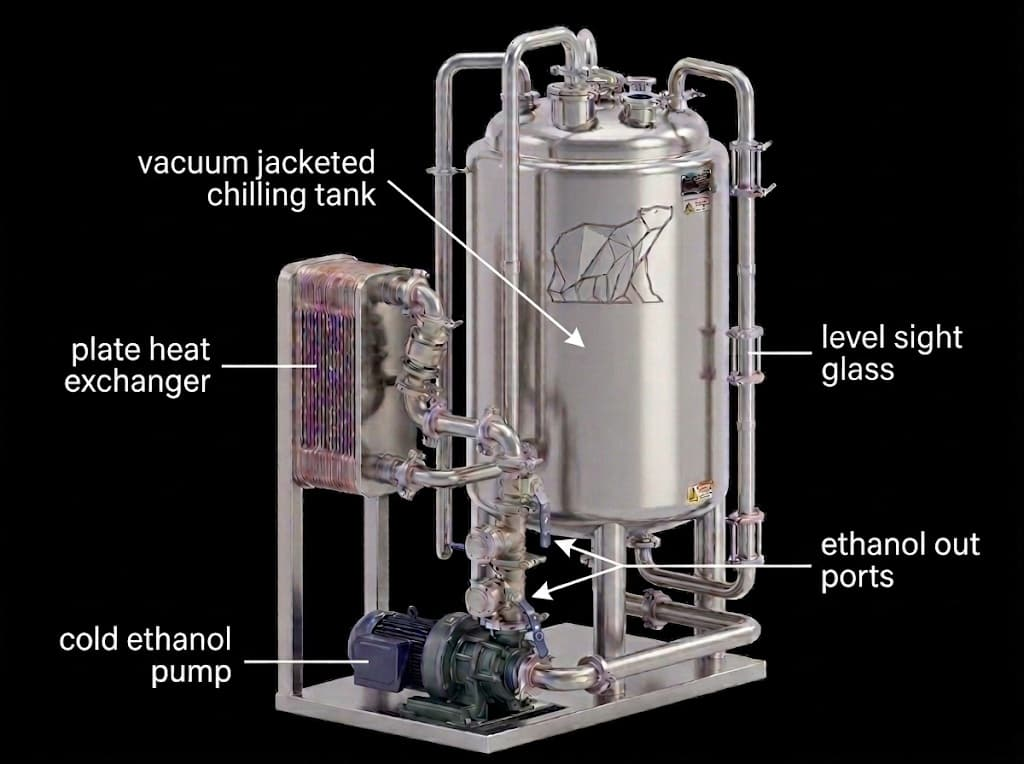
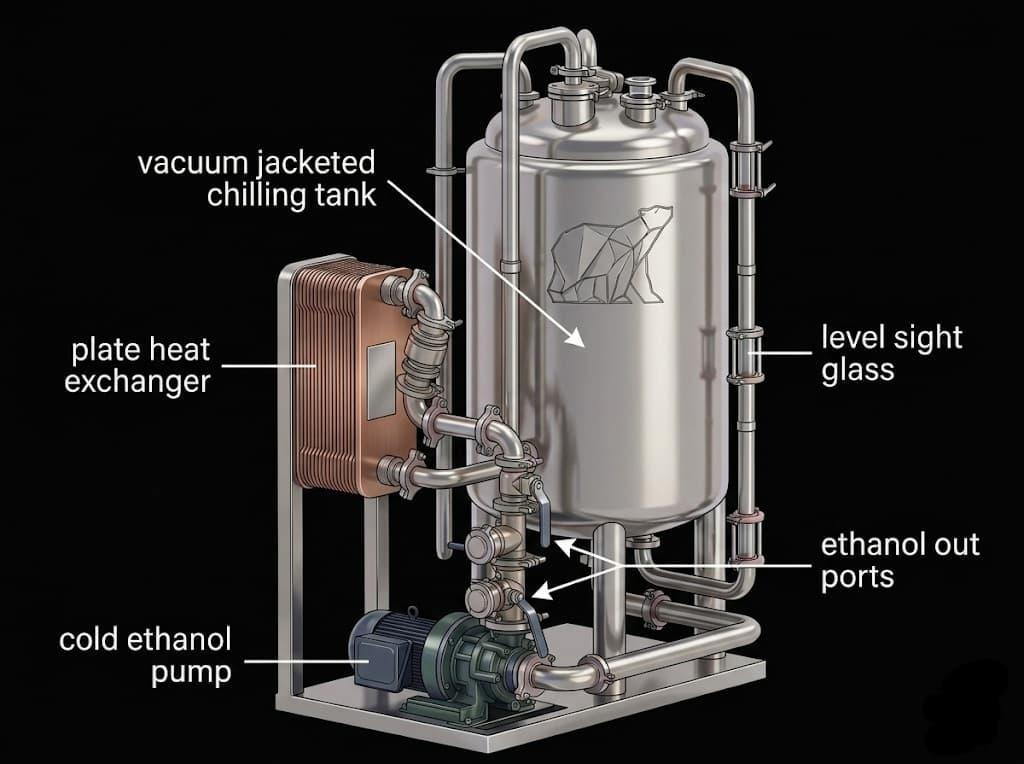
Update BLAST 60 tank overview and reduce flux box image size

diff --git a/app/ethanol-chiller-blast-60/page.jsx b/app/ethanol-chiller-blast-60/page.jsx
@@ -3,7 +3,7 @@ export const metadata = {
   description: "PermaCool BLAST 60 ethanol chiller is designed to chill up to 60 gallons toward -40°C with PLC/HMI visibility and direct refrigerant efficiency."
 }
 
-const mainHtml = "<p class=\"eyebrow\">BLAST™ Product Line</p>\n    <h1>BLAST 60 Ethanol Chiller</h1>\n    <p>\n      Built for extraction operators who need compact, production-ready chilling performance, the BLAST 60 class is engineered\n      for fast pull-down, low-temp stability, and reliable PLC-based control.\n    </p>\n\n    <h2>Cascade refrigeration design</h2>\n    <p>\n      The Blast 60 is a <strong>cascade unit</strong>, meaning it uses <strong>two compressors working together</strong> instead of forcing one oversized system to do everything on its own.\n    </p>\n    <ul class=\"list\">\n      <li><strong>The primary refrigeration circuit</strong> is what directly chills the ethanol.</li>\n      <li><strong>The cascade refrigeration circuit</strong> cools the primary circuit, allowing the overall system to reach lower temperatures and stronger chilling performance.</li>\n    </ul>\n    <p>\n      That two-stage approach lets the Blast 60 produce high-powered chilling while still using <strong>common-sized condensers and widely serviceable components</strong>.\n    </p>\n\n    <h2>Why that matters in the field</h2>\n    <h3>1. Better low-temp performance</h3>\n    <p>\n      The cascade setup allows the machine to push colder and work harder than a simple single-stage setup in the same class.\n    </p>\n\n    <h3>2. Common parts, easier service</h3>\n    <p>\n      Because it relies on more standard component sizing instead of rare oversized hardware, it is:\n    </p>\n    <ul class=\"list\">\n      <li>easier to diagnose</li>\n      <li>easier to repair</li>\n      <li>cheaper to repair</li>\n      <li>easier to keep running long-term</li>\n    </ul>\n\n    <h3>3. Long life / maintainability</h3>\n    <p>\n      This is huge. It is <strong>easy to keep these going forever</strong>.\n    </p>\n    <ul class=\"list\">\n      <li>built for long-term serviceability</li>\n      <li>designed around repairable common components</li>\n      <li>easier to maintain over the life of the machine</li>\n      <li>avoids dependence on exotic hard-to-source oversized parts</li>\n    </ul>\n\n    <h2>Built for better centrifuge pairing</h2>\n    <p>\n      Perma Cool’s legacy ACP-30 put more than 200 units into the field and proved the value of dedicated ethanol\n      pre-chilling. But at roughly 40 gallons, it was sized more for basic single-pass centrifuge support than for the\n      most efficient repeat-cycle workflow.\n    </p>\n    <p>\n      The ideal approach is to pair your ethanol tank at about <strong>2x the capacity of your centrifuge</strong>.\n    </p>\n    <p>That means:</p>\n    <ul class=\"list\">\n      <li><strong>30-gallon centrifuge = 60-gallon tank</strong></li>\n    </ul>\n    <p>\n      With that ratio, returning ethanol mixes back into a substantial reserve of already cold ethanol instead of\n      resetting the whole tank. The temperature shift stays much smaller, recovery back to <strong>-40</strong> is faster,\n      and operators can move back into extraction sooner.\n    </p>\n    <p>\n      This allows repeated extraction and re-chill cycles until the ethanol reaches roughly <strong>2 to 3 lb of material per gallon</strong>,\n      at which point it is ready to move to <strong>filtration and evaporation</strong>.\n    </p>\n    <p>\n      The Blast 60 is built around that more efficient real-world workflow.\n    </p>\n\n    <section class=\"card mt\">\n      <p class=\"eyebrow\">Component Overview</p>\n      <h2>Chiller Assets 60/45</h2>\n      <p>\n        This section is your visual breakdown of the major parts included with the Perma Cool BLAST™ 60/45. It is built so you can keep adding photos, part callouts, and short descriptions as you document the system.\n      </p>\n\n      <div style=\"display:grid; grid-template-columns:1fr 1fr; gap:1rem; align-items:start; margin-top:1rem;\">\n        <img src=\"/assets/images/products/blast-60-assets-overview.jpg\" alt=\"Perma Cool BLAST 60/45 chiller asset overview\" class=\"wide\" style=\"margin:0;\" />\n        <img src=\"/assets/images/products/blast-60-flux-box.jpg\" alt=\"Perma Cool BLAST 60/45 flux box\" class=\"wide\" style=\"margin:0;\" />\n      </div>\n\n      <div style=\"display:grid; grid-template-columns:1.05fr .95fr; gap:1rem; margin-top:1.25rem; align-items:start;\">\n        <div>\n          <h3>Current highlighted assets</h3>\n          <ul class=\"list\">\n            <li><strong>Vacuum jacketed chilling tank</strong>: insulated reservoir for maintaining cold ethanol stability.</li>\n            <li><strong>Plate heat exchanger</strong>: primary transfer surface for efficient chilling performance.</li>\n            <li><strong>Cold ethanol pump</strong>: circulates chilled ethanol through the process loop.</li>\n            <li><strong>Level sight glass</strong>: gives operators a quick visual on tank level during operation.</li>\n            <li><strong>Ethanol out ports</strong>: controlled output connections for routing chilled ethanol where it needs to go.</li>\n          </ul>\n\n          <h3 class=\"mt\">Recommended format for future asset entries</h3>\n          <ul class=\"list\">\n            <li><strong>Part name</strong>: use a short operator-friendly name first.</li>\n            <li><strong>Function</strong>: one sentence on what it does in the system.</li>\n            <li><strong>Why it matters</strong>: one sentence on the operating benefit.</li>\n            <li><strong>Photo or callout image</strong>: keep one image per part when possible for clarity.</li>\n          </ul>\n\n          <p><strong>Suggested naming style:</strong> Tank, Heat Exchanger, Pump, Sight Glass, Outlet Ports, Control Panel, Condenser, Compressors, Valves, and Utility Connections.</p>\n        </div>\n\n        <section class=\"card\" style=\"border:1px solid rgba(125, 199, 255, 0.24); box-shadow:0 10px 24px rgba(44, 111, 168, 0.12);\">\n          <p class=\"eyebrow\">Asset Detail</p>\n          <h3 style=\"font-size:1.15rem; color:#d7f0ff; letter-spacing:.02em;\">Flux Box</h3>\n          <p>\n            The <strong>flux box</strong> is part of the cascade side of the chiller and is specific to the <strong>BLAST™ 60/45</strong>.\n          </p>\n          <p>\n            This component allows the <strong>secondary chiller to cascade the primary chiller</strong>, supporting the two-stage refrigeration design that gives the 60/45 its stronger low-temperature performance.\n          </p>\n          <div style=\"display:grid; gap:.55rem; margin-top:1rem;\">\n            <div style=\"padding:.65rem .8rem; border-radius:10px; background:rgba(255,255,255,0.03); border:1px solid rgba(156, 179, 202, 0.14);\"><strong>Asset name:</strong> Flux Box</div>\n            <div style=\"padding:.65rem .8rem; border-radius:10px; background:rgba(255,255,255,0.03); border:1px solid rgba(156, 179, 202, 0.14);\"><strong>Used on:</strong> BLAST™ 60/45 only</div>\n            <div style=\"padding:.65rem .8rem; border-radius:10px; background:rgba(255,255,255,0.03); border:1px solid rgba(156, 179, 202, 0.14);\"><strong>Function:</strong> Supports the cascade refrigeration stage</div>\n            <div style=\"padding:.65rem .8rem; border-radius:10px; background:rgba(255,255,255,0.03); border:1px solid rgba(156, 179, 202, 0.14);\"><strong>Why it matters:</strong> Helps the secondary system drive the primary system to lower operating temperatures</div>\n          </div>\n        </section>\n      </div>\n    </section>\n\n    <h2>Highlights</h2>\n    <ul class=\"list\">\n      <li>Designed for up to 60-gallon process class applications</li>\n      <li>Target low-temp operation around -40°C (config/facility dependent)</li>\n      <li>Direct refrigerant architecture with HVAC condenser integration</li>\n      <li>PLC/HMI operational visibility and compressor protection logic</li>\n    </ul>\n\n    <div class=\"cta-row mt\">\n      <a class=\"btn\" href=\"/contact-us\">Request BLAST 60 Pricing</a>\n      <a class=\"btn btn-ghost\" href=\"/ethanol-chilling-systems\">Compare Chiller Options</a>\n    </div>\n\n    <section class=\"related card\">\n      <h3>Related reading</h3>\n      <p><a href=\"/direct-refrigerant-vs-ln2\">Direct Refrigerant vs LN2</a> • <a href=\"/industrial-process-chiller-maintenance\">Maintenance Guide</a></p>\n    </section>"
+const mainHtml = "<p class=\"eyebrow\">BLAST™ Product Line</p>\n    <h1>BLAST 60 Ethanol Chiller</h1>\n    <p>\n      Built for extraction operators who need compact, production-ready chilling performance, the BLAST 60 class is engineered\n      for fast pull-down, low-temp stability, and reliable PLC-based control.\n    </p>\n\n    <h2>Cascade refrigeration design</h2>\n    <p>\n      The Blast 60 is a <strong>cascade unit</strong>, meaning it uses <strong>two compressors working together</strong> instead of forcing one oversized system to do everything on its own.\n    </p>\n    <ul class=\"list\">\n      <li><strong>The primary refrigeration circuit</strong> is what directly chills the ethanol.</li>\n      <li><strong>The cascade refrigeration circuit</strong> cools the primary circuit, allowing the overall system to reach lower temperatures and stronger chilling performance.</li>\n    </ul>\n    <p>\n      That two-stage approach lets the Blast 60 produce high-powered chilling while still using <strong>common-sized condensers and widely serviceable components</strong>.\n    </p>\n\n    <h2>Why that matters in the field</h2>\n    <h3>1. Better low-temp performance</h3>\n    <p>\n      The cascade setup allows the machine to push colder and work harder than a simple single-stage setup in the same class.\n    </p>\n\n    <h3>2. Common parts, easier service</h3>\n    <p>\n      Because it relies on more standard component sizing instead of rare oversized hardware, it is:\n    </p>\n    <ul class=\"list\">\n      <li>easier to diagnose</li>\n      <li>easier to repair</li>\n      <li>cheaper to repair</li>\n      <li>easier to keep running long-term</li>\n    </ul>\n\n    <h3>3. Long life / maintainability</h3>\n    <p>\n      This is huge. It is <strong>easy to keep these going forever</strong>.\n    </p>\n    <ul class=\"list\">\n      <li>built for long-term serviceability</li>\n      <li>designed around repairable common components</li>\n      <li>easier to maintain over the life of the machine</li>\n      <li>avoids dependence on exotic hard-to-source oversized parts</li>\n    </ul>\n\n    <h2>Built for better centrifuge pairing</h2>\n    <p>\n      Perma Cool’s legacy ACP-30 put more than 200 units into the field and proved the value of dedicated ethanol\n      pre-chilling. But at roughly 40 gallons, it was sized more for basic single-pass centrifuge support than for the\n      most efficient repeat-cycle workflow.\n    </p>\n    <p>\n      The ideal approach is to pair your ethanol tank at about <strong>2x the capacity of your centrifuge</strong>.\n    </p>\n    <p>That means:</p>\n    <ul class=\"list\">\n      <li><strong>30-gallon centrifuge = 60-gallon tank</strong></li>\n    </ul>\n    <p>\n      With that ratio, returning ethanol mixes back into a substantial reserve of already cold ethanol instead of\n      resetting the whole tank. The temperature shift stays much smaller, recovery back to <strong>-40</strong> is faster,\n      and operators can move back into extraction sooner.\n    </p>\n    <p>\n      This allows repeated extraction and re-chill cycles until the ethanol reaches roughly <strong>2 to 3 lb of material per gallon</strong>,\n      at which point it is ready to move to <strong>filtration and evaporation</strong>.\n    </p>\n    <p>\n      The Blast 60 is built around that more efficient real-world workflow.\n    </p>\n\n    <section class=\"card mt\">\n      <p class=\"eyebrow\">Component Overview</p>\n      <h2>Chiller Assets 60/45</h2>\n      <p>\n        This section is your visual breakdown of the major parts included with the Perma Cool BLAST™ 60/45. It is built so you can keep adding photos, part callouts, and short descriptions as you document the system.\n      </p>\n\n      <div style=\"display:grid; grid-template-columns:1fr 1fr; gap:1rem; align-items:start; margin-top:1rem;\">\n        <img src=\"/assets/images/products/blast-60-assets-overview.jpg\" alt=\"Perma Cool BLAST 60/45 chiller asset overview\" class=\"wide\" style=\"margin:0;\" />\n        <img src=\"/assets/images/products/blast-60-flux-box.jpg\" alt=\"Perma Cool BLAST 60/45 flux box\" class=\"wide\" style=\"margin:0; max-width:340px; justify-self:center;\" />\n      </div>\n\n      <div style=\"display:grid; grid-template-columns:1.05fr .95fr; gap:1rem; margin-top:1.25rem; align-items:start;\">\n        <div>\n          <h3>Current highlighted assets</h3>\n          <ul class=\"list\">\n            <li><strong>Vacuum jacketed chilling tank</strong>: insulated reservoir for maintaining cold ethanol stability.</li>\n            <li><strong>Plate heat exchanger</strong>: primary transfer surface for efficient chilling performance.</li>\n            <li><strong>Cold ethanol pump</strong>: circulates chilled ethanol through the process loop.</li>\n            <li><strong>Level sight glass</strong>: gives operators a quick visual on tank level during operation.</li>\n            <li><strong>Ethanol out ports</strong>: controlled output connections for routing chilled ethanol where it needs to go.</li>\n          </ul>\n\n          <h3 class=\"mt\">Recommended format for future asset entries</h3>\n          <ul class=\"list\">\n            <li><strong>Part name</strong>: use a short operator-friendly name first.</li>\n            <li><strong>Function</strong>: one sentence on what it does in the system.</li>\n            <li><strong>Why it matters</strong>: one sentence on the operating benefit.</li>\n            <li><strong>Photo or callout image</strong>: keep one image per part when possible for clarity.</li>\n          </ul>\n\n          <p><strong>Suggested naming style:</strong> Tank, Heat Exchanger, Pump, Sight Glass, Outlet Ports, Control Panel, Condenser, Compressors, Valves, and Utility Connections.</p>\n        </div>\n\n        <section class=\"card\" style=\"border:1px solid rgba(125, 199, 255, 0.24); box-shadow:0 10px 24px rgba(44, 111, 168, 0.12);\">\n          <p class=\"eyebrow\">Asset Detail</p>\n          <h3 style=\"font-size:1.15rem; color:#d7f0ff; letter-spacing:.02em;\">Flux Box</h3>\n          <p>\n            The <strong>flux box</strong> is part of the cascade side of the chiller and is specific to the <strong>BLAST™ 60/45</strong>.\n          </p>\n          <p>\n            This component allows the <strong>secondary chiller to cascade the primary chiller</strong>, supporting the two-stage refrigeration design that gives the 60/45 its stronger low-temperature performance.\n          </p>\n          <div style=\"display:grid; gap:.55rem; margin-top:1rem;\">\n            <div style=\"padding:.65rem .8rem; border-radius:10px; background:rgba(255,255,255,0.03); border:1px solid rgba(156, 179, 202, 0.14);\"><strong>Asset name:</strong> Flux Box</div>\n            <div style=\"padding:.65rem .8rem; border-radius:10px; background:rgba(255,255,255,0.03); border:1px solid rgba(156, 179, 202, 0.14);\"><strong>Used on:</strong> BLAST™ 60/45 only</div>\n            <div style=\"padding:.65rem .8rem; border-radius:10px; background:rgba(255,255,255,0.03); border:1px solid rgba(156, 179, 202, 0.14);\"><strong>Function:</strong> Supports the cascade refrigeration stage</div>\n            <div style=\"padding:.65rem .8rem; border-radius:10px; background:rgba(255,255,255,0.03); border:1px solid rgba(156, 179, 202, 0.14);\"><strong>Why it matters:</strong> Helps the secondary system drive the primary system to lower operating temperatures</div>\n          </div>\n        </section>\n      </div>\n    </section>\n\n    <h2>Highlights</h2>\n    <ul class=\"list\">\n      <li>Designed for up to 60-gallon process class applications</li>\n      <li>Target low-temp operation around -40°C (config/facility dependent)</li>\n      <li>Direct refrigerant architecture with HVAC condenser integration</li>\n      <li>PLC/HMI operational visibility and compressor protection logic</li>\n    </ul>\n\n    <div class=\"cta-row mt\">\n      <a class=\"btn\" href=\"/contact-us\">Request BLAST 60 Pricing</a>\n      <a class=\"btn btn-ghost\" href=\"/ethanol-chilling-systems\">Compare Chiller Options</a>\n    </div>\n\n    <section class=\"related card\">\n      <h3>Related reading</h3>\n      <p><a href=\"/direct-refrigerant-vs-ln2\">Direct Refrigerant vs LN2</a> • <a href=\"/industrial-process-chiller-maintenance\">Maintenance Guide</a></p>\n    </section>"
 const stickyHtml = "<div class=\"inner\">\n      <p>Need lead time + pricing for BLAST 60?</p>\n      <a class=\"btn\" href=\"/contact-us\">Request Pricing</a>\n    </div>"
 
 export default function Page() {
